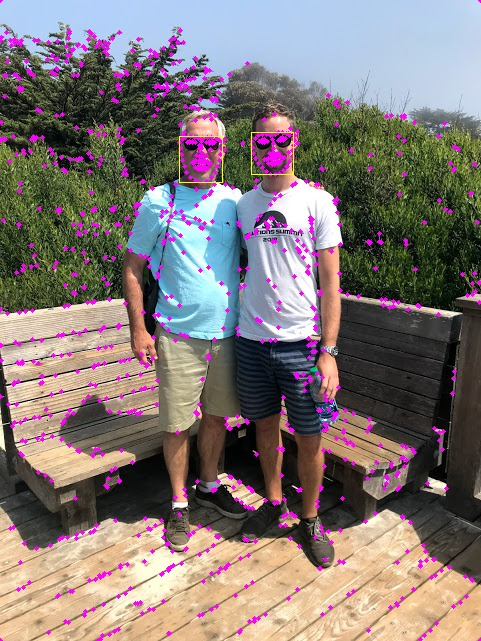
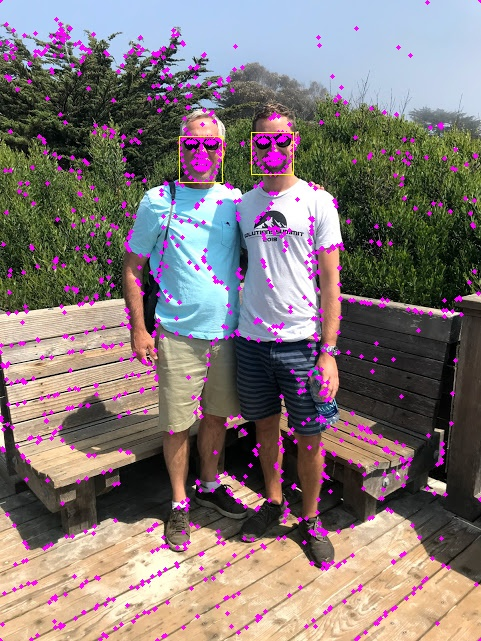
add random points

diff --git a/py-detect-features/lambda_function.py b/py-detect-features/lambda_function.py
@@ -9,6 +9,7 @@ speed increase.
 import os
 import io
 import json
+import random
 import pdb
 
 import boto3
@@ -177,6 +178,25 @@ def identify_facial_landmarks(img):
     return points, face_bounds
 
 
+def identify_filler_points(img, current_points):
+    """
+    For now we generate 10% len(current_points) randomly. Later, we
+    intelligently choose where we need more points.
+    """
+
+    height, width, _ = img.shape
+
+    num_points = int(0.10 * len(current_points))
+    points = []
+    for i in range(num_points):
+        x = random.randint(0, width - 1)
+        y = random.randint(0, height - 1)
+        point = (x, y)
+        points.append(point)
+
+    return points
+
+
 def identify_points(img, options):
     """
     Use a method to identify points
@@ -203,6 +223,11 @@ def identify_points(img, options):
 
     # Aggregate points
     points = grid_points + key_points + canny_edges
+
+    # Generate points to fill in gaps
+    if options['random']:
+        random_points = identify_filler_points(img, points)
+        points += random_points
 
     # Remove any points within any face_bound
     for point in points:
@@ -259,10 +284,12 @@ def lambda_handler(event, context):
         'key_points': False,
         'facial_landmarks': True,
         'canny': True,
+        'random': True,
         'max_points': 1000,  # Will need to restrict max here.
         'min_points': 100,
     }
     points, face_bounds = identify_points(img, options)
+    print 'num_points:', len(points)
 
     # Draw on img
     for point in points:

diff --git a/README.md b/README.md
@@ -121,7 +121,7 @@ lein lambda deploy production
 ## To Do
 
 - Now
-  - Make sure all coordinates are within bounds
+  - Fill gaps
   - Sort out image rotation
   - Variance division
 
